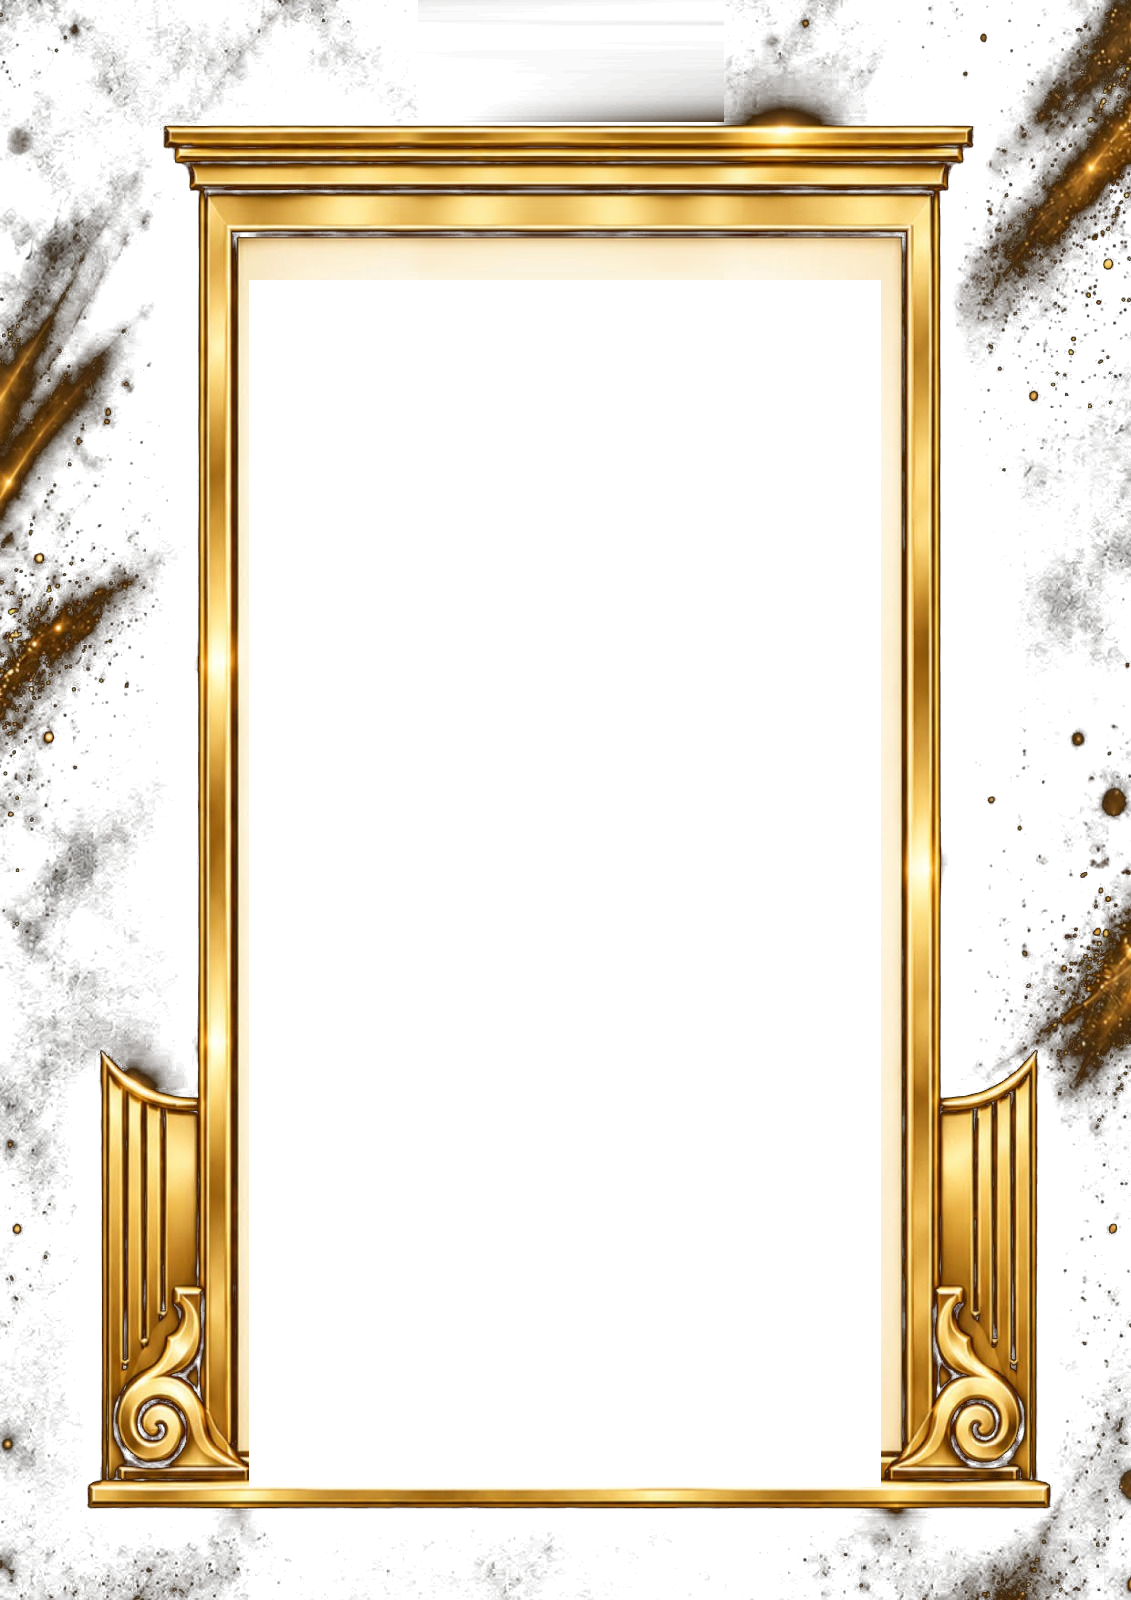
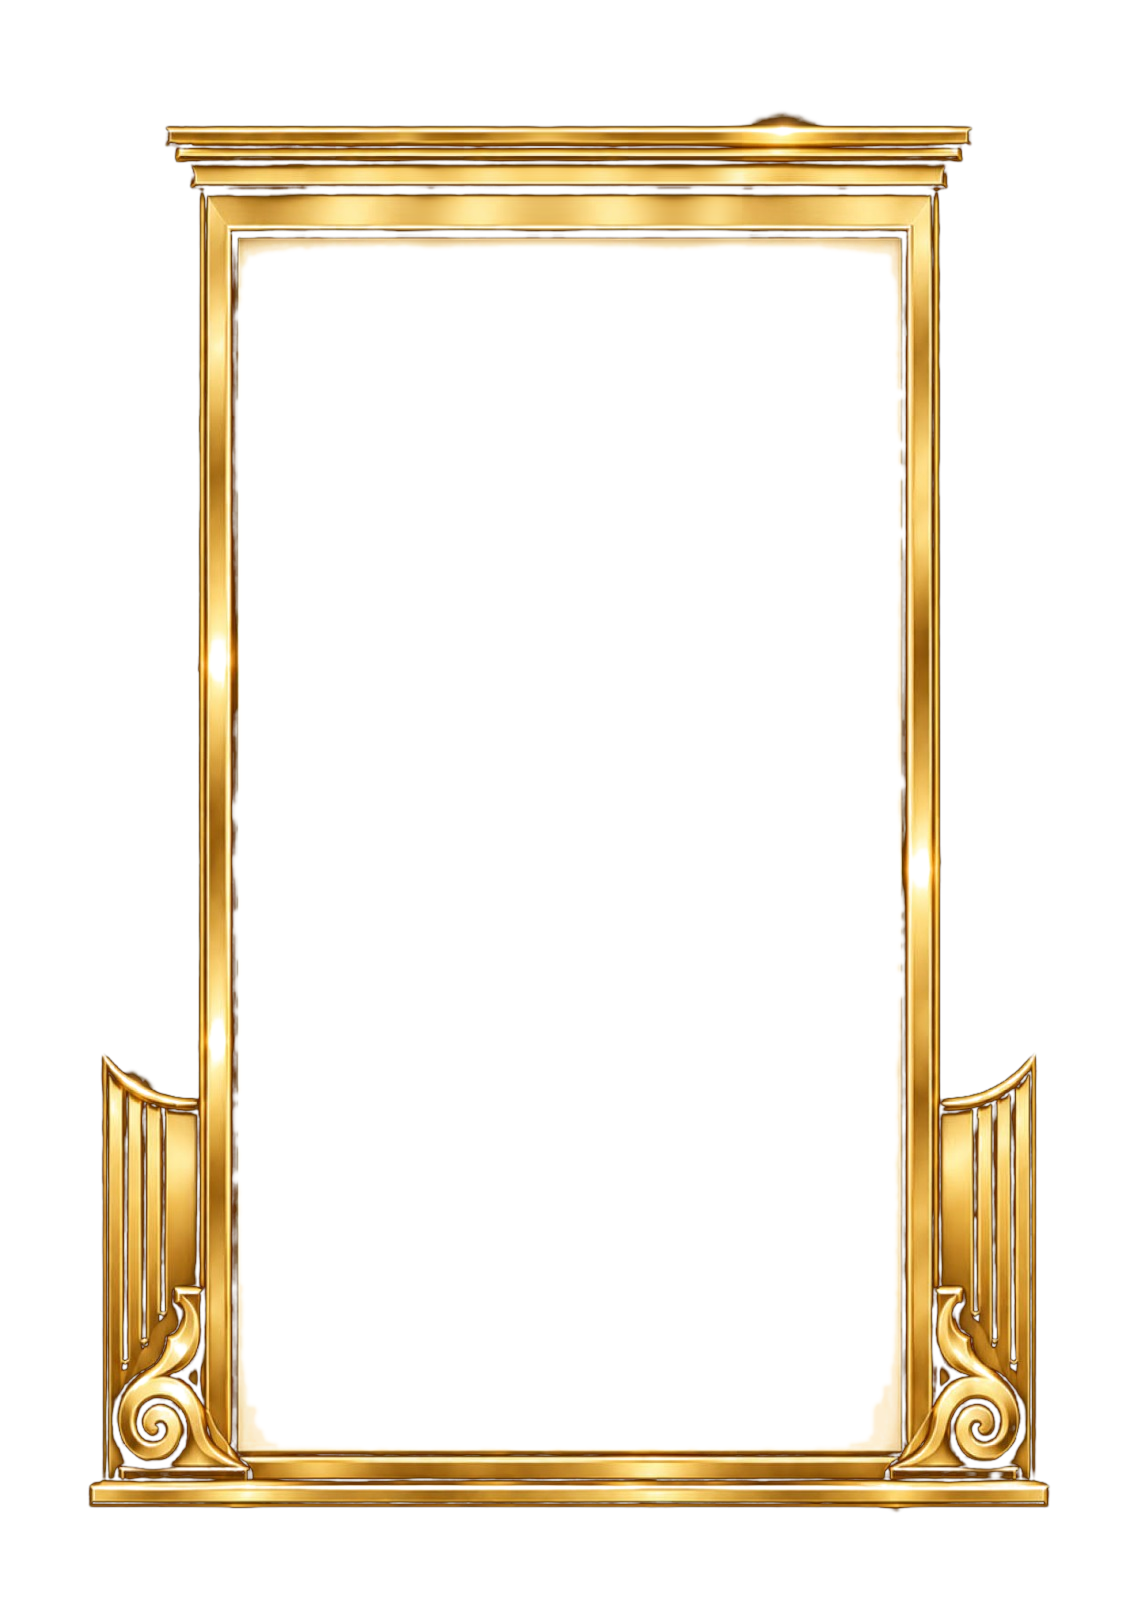
Add files via upload

diff --git a/main.html b/main.html
@@ -229,168 +229,213 @@ body.marble .zr-soon,body.marble .zr-soon b{color:#9a5a12}
 body.marble .zr-hot,body.marble .zr-hot b{color:#a52216}
 @media (prefers-reduced-motion:reduce){ .zr-hot b{animation:none} }
 
+
 /* =====================================================================
-   נתי SAFE — ערכת "המרכז הרוחני חפציבה בית שמש"
+   ערכת "המרכז הרוחני חפציבה בית שמש" — מסך ראשי
    ---------------------------------------------------------------------
-   המסגרת מקובץ המעצב, מוחלת כ-border-image בחיתוך תשיעיות: הפינות
-   שומרות על היחס שלהן והצדדים נמתחים בלבד, ולכן אין עיוות בשום גודל.
-   הפרוסות נמדדו מגבולות הלוח הפנימי: 278 · 248 · 112 · 246 מתוך 1131x1600.
+   המסך נבנה סביב המסגרת ולא מולבש בה. שלושה דברים שחייבו זאת:
 
-   שלושה דברים שנשברו בניסיון הראשון ותוקנו כאן:
+   1. קובץ המסגרת הכיל את הרקע השחור עם מריחות הזהב. border-image
+      מתח אותן וחזר עליהן — וזה מה שנראה כתפרים בין תמונות. הקובץ
+      הוחלף בזהב על שקיפות מלאה.
 
-   1. הטקסט לא נראה. ה-fill מתח את הלוח הקרמי על כל השטח, אבל הרקעים
-      הכהים של העיצוב המקורי נשארו מעליו והטקסט אבד ביניהם. כאן כל
-      רקע שמתנגש מבוטל במפורש.
+   2. עובי הגבול נקבע קודם במידה אחת לכל האלמנטים, ולכן עמודה צרה
+      קיבלה מסגרת עבה ביחס לרוחבה. כאן לכל עמודה עובי משלה.
 
-   2. הלוגו נחתך. הוא ישב מאחורי הגבול. עכשיו הוא ב-z-index גבוה,
-      ומרחף מעל הקורה במקום להיות מכוסה בה.
+   3. הלוגו ישב על הקורה וכיסה טקסט. עכשיו הוא מרחף מעליה, והתוכן
+      מתחיל מתחתיו.
 
-   3. הפרופורציות. border-width ב-vw נתן עובי שונה לכל אלמנט לפי
-      רוחבו. כאן העובי אחיד ונמדד ב-vh בשני הצירים.
-
-   ---------------------------------------------------------------------
-   וריאנטים: body.merkaz + one of
-     .mk-cream    לוח שנהב, דיו כהה          ברירת מחדל
-     .mk-navy     לוח כחול לילה, דיו בהיר
-     .mk-wine     לוח בורדו עמוק, דיו זהב
-     .mk-dark     לוח שחור-פחם, דיו זהב
+   הפרוסות: 247 עליון · 234 ימני · 152 תחתון · 239 שמאלי, מתוך 1131x1600.
+   נמדדו מהשטח השקוף בנכס עצמו, ולא מהערכה.
    ===================================================================== */
 
 body.merkaz{
-  --mkf:  url("https://nati-safe-systems.github.io/screen/frame-merkaz-alpha.png");
-  --mkl:  url("https://nati-safe-systems.github.io/screen/logo-merkaz.png");
-  --mk-bd: 6.4vh;            /* עובי אחיד — נמדד בגובה בשני הצירים */
-  --mk-bdb: 2.6vh;
+  --mkf: url("https://nati-safe-systems.github.io/screen/frame-merkaz-alpha.png");
+  --mkl: url("https://nati-safe-systems.github.io/screen/logo-merkaz.png");
   background:#07090e !important;
 }
-
-/* ---------- וריאנטים ---------- */
+body.merkaz.mk-dark{
+  --pane1:#171410; --pane2:#0c0b08;
+  --ink:#f4e7c6; --dim:#bda97e; --ttl:#e8c76e;
+  --line:rgba(232,199,110,.22); --hot:#ff9b86; --soon:#e8c76e;
+  --chip:rgba(232,199,110,.10); --chipb:rgba(232,199,110,.30);
+  --nx1:#e8c76e; --nx2:#b8912f; --nxi:#14120d;
+}
 body.merkaz.mk-cream{
-  --mk-pane:#f6f2e6; --mk-pane2:#ece5d2;
-  --mk-ink:#241a05; --mk-dim:#5c4a1e; --mk-ttl:#7d5f10;
-  --mk-line:rgba(125,95,16,.30); --mk-hot:#98200f; --mk-soon:#8a5510;
-  --mk-chip:rgba(180,140,40,.16); --mk-chipb:rgba(125,95,16,.34);
-  --mk-nx1:#2c1f0b; --mk-nx2:#191106; --mk-nxi:#f4dc96;
+  --pane1:#f6f2e6; --pane2:#e9e1cd;
+  --ink:#241a05; --dim:#5c4a1e; --ttl:#7d5f10;
+  --line:rgba(125,95,16,.28); --hot:#98200f; --soon:#8a5510;
+  --chip:rgba(180,140,40,.15); --chipb:rgba(125,95,16,.32);
+  --nx1:#2c1f0b; --nx2:#191106; --nxi:#f4dc96;
 }
 body.merkaz.mk-navy{
-  --mk-pane:#101c33; --mk-pane2:#0a1424;
-  --mk-ink:#eaf1fb; --mk-dim:#9fb6d4; --mk-ttl:#ffd769;
-  --mk-line:rgba(255,215,105,.26); --mk-hot:#ff8a7a; --mk-soon:#ffd769;
-  --mk-chip:rgba(255,215,105,.10); --mk-chipb:rgba(255,215,105,.3);
-  --mk-nx1:#ffd769; --mk-nx2:#d9a800; --mk-nxi:#17212f;
+  --pane1:#101c33; --pane2:#0a1424;
+  --ink:#eaf1fb; --dim:#9fb6d4; --ttl:#ffd769;
+  --line:rgba(255,215,105,.24); --hot:#ff8a7a; --soon:#ffd769;
+  --chip:rgba(255,215,105,.10); --chipb:rgba(255,215,105,.28);
+  --nx1:#ffd769; --nx2:#d9a800; --nxi:#17212f;
 }
 body.merkaz.mk-wine{
-  --mk-pane:#2b0d10; --mk-pane2:#1c0709;
-  --mk-ink:#f6e6c8; --mk-dim:#c9a98a; --mk-ttl:#f0c86a;
-  --mk-line:rgba(240,200,106,.26); --mk-hot:#ff9b86; --mk-soon:#f0c86a;
-  --mk-chip:rgba(240,200,106,.10); --mk-chipb:rgba(240,200,106,.3);
-  --mk-nx1:#f0c86a; --mk-nx2:#c9982e; --mk-nxi:#2b0d10;
-}
-body.merkaz.mk-dark{
-  --mk-pane:#14120d; --mk-pane2:#0b0a07;
-  --mk-ink:#f2e4c2; --mk-dim:#b8a479; --mk-ttl:#e8c76e;
-  --mk-line:rgba(232,199,110,.24); --mk-hot:#ff9b86; --mk-soon:#e8c76e;
-  --mk-chip:rgba(232,199,110,.09); --mk-chipb:rgba(232,199,110,.28);
-  --mk-nx1:#e8c76e; --mk-nx2:#b8912f; --mk-nxi:#14120d;
+  --pane1:#2b0d10; --pane2:#1a0608;
+  --ink:#f6e6c8; --dim:#c9a98a; --ttl:#f0c86a;
+  --line:rgba(240,200,106,.24); --hot:#ff9b86; --soon:#f0c86a;
+  --chip:rgba(240,200,106,.10); --chipb:rgba(240,200,106,.28);
+  --nx1:#f0c86a; --nx2:#c9982e; --nxi:#2b0d10;
 }
 
-/* ---------- המסגרת ---------- */
-body.merkaz .mkf{
+/* ---------- פריסה ---------- */
+body.merkaz .main{gap:.8vw;padding:1vh .8vw 0;align-items:stretch}
+body.merkaz .col{width:25.5%;padding:0 !important;background:none !important;border:0 !important}
+body.merkaz .center{flex:1}
+
+/* ---------- המסגרת ----------
+   לכל עמודה עובי משלה, יחסית לרוחבה — אחרת עמודה צרה נראית חנוקה. */
+body.merkaz .col.r,
+body.merkaz .col.l,
+body.merkaz .center{
   position:relative;
   border-style:solid;
-  border-width:var(--mk-bd) var(--mk-bd) var(--mk-bdb) var(--mk-bd);
-  border-image:var(--mkf) 278 248 112 246 stretch;
-  background:linear-gradient(180deg,var(--mk-pane),var(--mk-pane2)) !important;
+  border-image:var(--mkf) 247 234 152 239 stretch;
+  background:linear-gradient(170deg,var(--pane1),var(--pane2)) !important;
   background-clip:padding-box !important;
   box-shadow:none !important;
-  overflow:visible !important;
+  overflow:hidden;
+  display:flex;flex-direction:column;
+}
+body.merkaz .col.r,body.merkaz .col.l{ border-width:5.6vh 3.4vw 2.3vh 3.4vw; }
+body.merkaz .center{ border-width:6.8vh 2.9vw 2.8vh 2.9vw; }
+
+/* ---------- הלוגו כסימן מים ברקע ----------
+   עדין מאוד, כדי שיירמז ולא יתחרה בתוכן. */
+body.merkaz .col.r::after,
+body.merkaz .col.l::after,
+body.merkaz .center::after{
+  content:"";position:absolute;inset:0;z-index:0;pointer-events:none;
+  background:var(--mkl) center 46%/58% auto no-repeat;
+  opacity:.055;
+  filter:grayscale(.3);
+}
+body.merkaz.mk-cream .col.r::after,
+body.merkaz.mk-cream .col.l::after,
+body.merkaz.mk-cream .center::after{opacity:.075}
+
+/* ---------- פס זוהר אלכסוני ----------
+   חוצה את הלוח לאט, מדגיש את המרקם ונעלם. אותו רעיון שהיה
+   בערכת הזהב הקלאסית, מותאם ללוח הפנימי. */
+body.merkaz .col.r::before,
+body.merkaz .col.l::before,
+body.merkaz .center::before{
+  content:"";position:absolute;top:-40%;left:-35%;
+  width:20%;height:190%;z-index:1;pointer-events:none;
+  background:linear-gradient(90deg,transparent,
+    rgba(255,232,170,.13) 42%,rgba(255,244,210,.20) 50%,
+    rgba(255,232,170,.13) 58%,transparent);
+  transform:rotate(17deg);
+  animation:mkShine 9s ease-in-out infinite;
+}
+body.merkaz .center::before{animation-delay:1.6s}
+body.merkaz .col.l::before{animation-delay:3.2s}
+@keyframes mkShine{
+  0%   {left:-35%;opacity:0}
+  12%  {opacity:1}
+  55%  {opacity:1}
+  70%  {left:125%;opacity:0}
+  100% {left:125%;opacity:0}
+}
+@media (prefers-reduced-motion:reduce){
+  body.merkaz .col.r::before,body.merkaz .col.l::before,
+  body.merkaz .center::before{animation:none;opacity:0}
 }
 
-/* ---------- הלוגו ----------
-   z-index גבוה כדי שירחף מעל הקורה ולא ייחתך בה.
-   יושב מעל המסגרת ולא בתוכה, ולכן אינו מכסה תוכן. */
-body.merkaz .mkf-logo::before{
-  content:"";position:absolute;top:0;left:50%;
-  transform:translate(-50%,-56%);
-  width:auto;aspect-ratio:257/236;height:calc(var(--mk-bd) * 1.85);
-  z-index:40;pointer-events:none;
+/* התוכן מעל הזוהר ומעל סימן המים */
+body.merkaz .col > *,body.merkaz .center > *{position:relative;z-index:3}
+
+/* ---------- הלוגו על הקורה ----------
+   מרחף מעל המסגרת ולא בתוכה, ולכן אינו נחתך ואינו מכסה טקסט. */
+body.merkaz .center{overflow:visible}
+body.merkaz .mk-crown{
+  position:absolute;top:0;left:50%;transform:translate(-50%,-54%);
+  aspect-ratio:257/236;height:9.4vh;z-index:60;pointer-events:none;
   background:var(--mkl) center/contain no-repeat;
-  filter:drop-shadow(0 .6vh 1.4vh rgba(0,0,0,.6));
+  filter:drop-shadow(0 .6vh 1.6vh rgba(0,0,0,.65));
 }
-
-/* ---------- ביטול רקעים שמתנגשים ----------
-   בלי זה הרקעים הכהים של העיצוב המקורי מכסים את הלוח והטקסט אובד. */
-body.merkaz .mkf > *{position:relative;z-index:2}
-body.merkaz .mkf #bgimg,
-body.merkaz .mkf #bgveil{display:none !important}
-body.merkaz .room,
-body.merkaz .mcard,
-body.merkaz .sc,
-body.merkaz .ann,
-body.merkaz .list,
-body.merkaz .mgrid,
-body.merkaz .inner{background:none !important;box-shadow:none !important}
 
 /* ---------- טיפוגרפיה ---------- */
-body.merkaz .mkf,
-body.merkaz .mkf *{color:var(--mk-ink)}
-body.merkaz .bt,
-body.merkaz .secttl,
-body.merkaz .room .rt,
-body.merkaz .mcard .rt{
-  color:var(--mk-ttl) !important;
-  font-family:"Frank Ruhl Libre",serif;font-weight:900;
-  background:none !important;border:0 !important;text-shadow:none !important;
-  border-bottom:.2vh solid var(--mk-line) !important;
+body.merkaz .col *,body.merkaz .center .ann,
+body.merkaz .center .ann *{color:var(--ink)}
+body.merkaz #bgimg,body.merkaz #bgveil{display:none !important}
+
+/* הטור הימני — שעון, תאריך, זמנים */
+body.merkaz .col.r{justify-content:flex-start}
+body.merkaz #clock{
+  color:var(--ttl) !important;font-size:6.6vh;line-height:1;
+  margin:0 0 .4vh;text-shadow:0 .2vh .6vh rgba(0,0,0,.5);
 }
-body.merkaz .zr,body.merkaz .zrow{border-bottom:.12vh dotted var(--mk-line) !important}
-body.merkaz .zr span{color:var(--mk-dim)}
-body.merkaz .zr b{color:var(--mk-ink)}
-body.merkaz .zr-soon,body.merkaz .zr-soon b{color:var(--mk-soon) !important}
-body.merkaz .zr-hot,body.merkaz .zr-hot b{color:var(--mk-hot) !important}
-body.merkaz .room{border:0 !important;border-bottom:.12vh solid var(--mk-line) !important}
+body.merkaz .dt{color:var(--ink);font-size:2.2vh;margin:0}
+body.merkaz .dt2{color:var(--dim);font-size:1.5vh;margin:0 0 .8vh}
+body.merkaz .par{
+  color:var(--ttl) !important;background:none !important;border:0 !important;
+  font-size:1.85vh;line-height:1.45;padding:.7vh .4vw;margin:0 0 .8vh;
+  border-top:.14vh solid var(--line) !important;
+  border-bottom:.14vh solid var(--line) !important;
+}
+body.merkaz .bt{
+  color:var(--ttl) !important;font-family:"Frank Ruhl Libre",serif;
+  font-weight:900;font-size:2.1vh;background:none !important;
+  border:0 !important;border-bottom:.18vh solid var(--line) !important;
+  text-shadow:none !important;padding-bottom:.5vh;margin-bottom:.5vh;
+}
+body.merkaz .list{flex:1;justify-content:space-evenly;min-height:0}
+body.merkaz .zr{
+  border-bottom:.1vh dotted var(--line) !important;
+  padding:.28vh 0;font-size:2vh;
+}
+body.merkaz .zr span{color:var(--dim)}
+body.merkaz .zr b{color:var(--ink);font-size:2.15vh}
+body.merkaz .zr-soon,body.merkaz .zr-soon b{color:var(--soon) !important}
+body.merkaz .zr-hot,body.merkaz .zr-hot b{color:var(--hot) !important}
+body.merkaz .warn{color:var(--hot) !important;opacity:.8;font-size:1.35vh;margin-top:.5vh}
+
+/* הטור השמאלי — זמני התפילות. הטקסט הוגדל, זה היה קטן מדי. */
+body.merkaz #mlist{flex:1;min-height:0;display:flex;flex-direction:column;
+  justify-content:space-evenly}
+body.merkaz .room{
+  background:none !important;border:0 !important;box-shadow:none !important;
+  border-bottom:.12vh solid var(--line) !important;
+  padding:.3vh 0 .6vh !important;margin:0 !important;
+}
+body.merkaz .room:last-child{border-bottom:0 !important}
+body.merkaz .room .rt,body.merkaz .room h4{
+  color:var(--ttl) !important;font-family:"Frank Ruhl Libre",serif;
+  font-weight:900;font-size:2.15vh;margin-bottom:.35vh;
+}
+body.merkaz .prow{gap:.3vw;margin-bottom:.25vh}
+body.merkaz .prow span{color:var(--dim);font-size:1.6vh}
 body.merkaz .prow i{
-  color:var(--mk-ink) !important;background:var(--mk-chip) !important;
-  border:.1vh solid var(--mk-chipb) !important;
+  color:var(--ink) !important;background:var(--chip) !important;
+  border:.1vh solid var(--chipb) !important;
+  font-size:calc(var(--mk,1) * 2.05vh) !important;
+  padding:.18vh 0;border-radius:.5vh;
 }
 body.merkaz .prow i.nx{
-  color:var(--mk-nxi) !important;
-  background:linear-gradient(175deg,var(--mk-nx1),var(--mk-nx2)) !important;
-  border-color:var(--mk-nx1) !important;
+  color:var(--nxi) !important;
+  background:linear-gradient(175deg,var(--nx1),var(--nx2)) !important;
+  border-color:var(--nx1) !important;
 }
-body.merkaz .warn{color:var(--mk-hot) !important;opacity:.85}
-body.merkaz .none{color:var(--mk-dim) !important}
+body.merkaz .prow i.roll{
+  color:var(--soon) !important;background:var(--chip) !important;
+  font-size:calc(var(--mk,1) * 1.7vh) !important;
+}
 
-/* ---------- אזורים מחוץ למסגרת ---------- */
-body.merkaz .hdr,
-body.merkaz .head,
-body.merkaz .topbar,
-body.merkaz .top{background:none !important;border-color:var(--mk-line) !important}
+/* המרכז — לוח המודעות */
+body.merkaz .center .ttl{padding-top:.6vh}
+body.merkaz .center .ttl img{display:none}
+body.merkaz .center .ttl small{color:var(--dim);font-size:1.9vh}
+body.merkaz .center .ttl b{color:var(--ttl);font-size:4.2vh}
+body.merkaz .bsd{color:var(--dim);opacity:.75}
+body.merkaz .ann{flex:1;background:none !important}
+body.merkaz .none{color:var(--dim) !important}
 body.merkaz .ft{background:#07090e !important}
-
-/* ---- אילו אלמנטים נושאים את המסגרת במסך הזה ---- */
-body.merkaz .col.r,
-body.merkaz .center,
-body.merkaz .col.l{
-  position:relative;
-  border-style:solid;
-  border-width:var(--mk-bd) var(--mk-bd) var(--mk-bdb) var(--mk-bd);
-  border-image:var(--mkf) 278 248 112 246 stretch;
-  background:linear-gradient(180deg,var(--mk-pane),var(--mk-pane2)) !important;
-  background-clip:padding-box !important;
-  box-shadow:none !important;
-  overflow:visible !important;
-}
-body.merkaz .col.r > *,
-body.merkaz .center > *,
-body.merkaz .col.l > *{position:relative;z-index:2}
-body.merkaz .center::before{
-  content:"";position:absolute;top:0;left:50%;transform:translate(-50%,-56%);
-  aspect-ratio:257/236;height:calc(var(--mk-bd) * 1.85);
-  z-index:40;pointer-events:none;
-  background:var(--mkl) center/contain no-repeat;
-  filter:drop-shadow(0 .6vh 1.4vh rgba(0,0,0,.6));
-}
 </style></head><body>
 
 
@@ -431,6 +476,7 @@ body.merkaz .center::before{
   </div>
 
   <div class="center">
+    <div class="mk-crown"></div>
     <div id="bgimg"></div><div id="bgveil"></div>
     <div class="ttl"><img id="siteLogo" alt=""><small>לוח המודעות של</small><b id="ttlName">—</b></div>
     <div class="bsd">בס"ד</div>
@@ -2677,5 +2723,5 @@ setTimeout(fetchParasha, 3000);
 })();
 /* האתחול רץ רק אחרי שהמסך עבר רישיון, טוקן ונעילת מכשיר */
 NatiGuard.check(function(){ load(); tick(); });
-</script><div id="nsf-ver" style="position:fixed;left:8px;bottom:34px;z-index:2147482001;">נתי SAFE · מסך ראשי · גרסה 3.1 · 28.09.26</div>
+</script><div id="nsf-ver" style="position:fixed;left:8px;bottom:34px;z-index:2147482001;">נתי SAFE · מסך ראשי · גרסה 3.2 · 28.09.26</div>
 </body></html>
